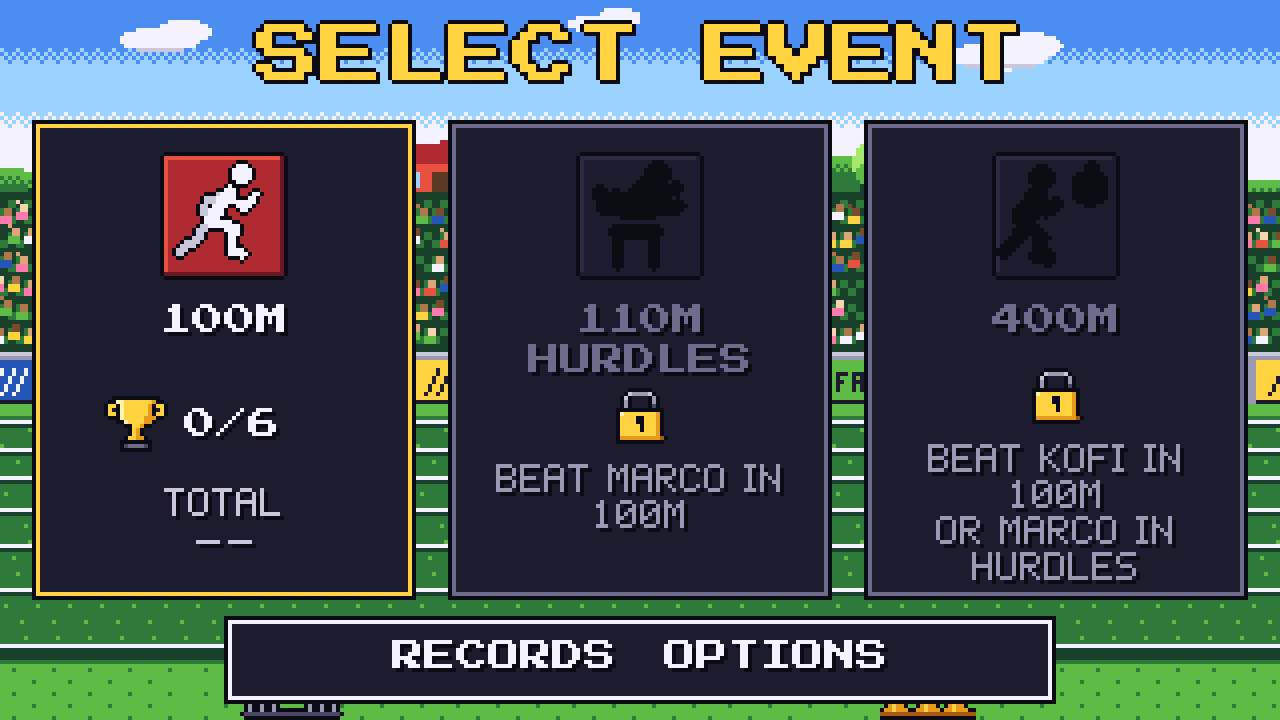
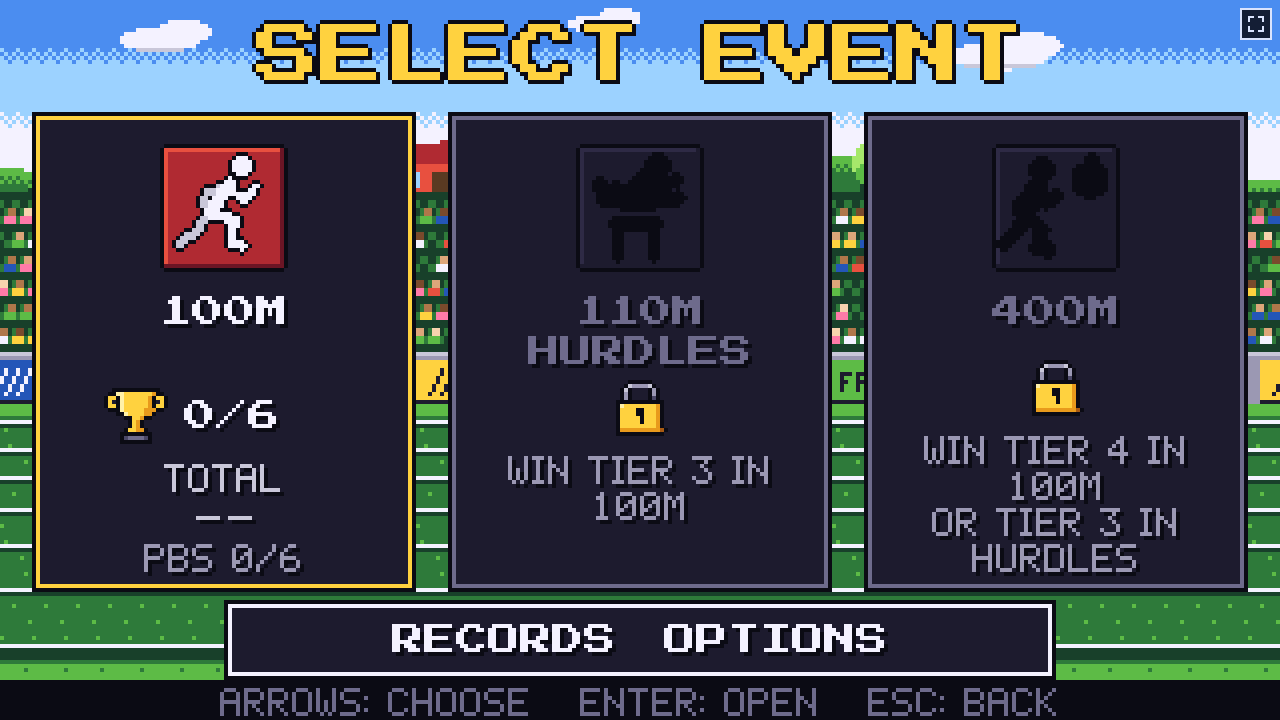
Re-capture the README screenshots for the UX pass
The event select, ladder, race and results screenshots showed the old
"BEAT MARCO" lock text and the old results card. The new captures show
the tier lock text and key hints, the meet name on the ladder, and the
results card's pace, fumbles, pace needed to win, PB gap and next
unlock; the captions follow.

diff --git a/README.md b/README.md
@@ -20,15 +20,15 @@ _A 100 m race in progress at the World Games meet. Screenshot of the running gam
 
 ![The event select screen: 100 m unlocked, while the 110 m hurdles and 400 m cards are locked with their unlock conditions.](docs/assets/events.png)
 
-_Event select on a fresh profile. Beating rivals in the 100 m unlocks the hurdles and the 400 m._
+_Event select on a fresh profile. Winning higher tiers of the 100 m unlocks the hurdles and the 400 m._
 
-![The 100 m ladder with Kofi selected: his tier, target time, best placing of 2nd, and medal pips on the rivals already raced.](docs/assets/ladder.png)
+![The 100 m ladder with Kofi selected: his tier, his meet (City Open), target time, best placing of 2nd, and medal pips on the rivals already raced.](docs/assets/ladder.png)
 
 _The ladder. Medal pips show your best placing against each rival._
 
-![A results card for a six-runner race, listing every runner's place and time, with the player's row highlighted in 6th.](docs/assets/results.png)
+![A results card for a six-runner race: every runner's place and time with the player's row highlighted in 6th, then the player's pace, fumbles, the extra pace needed to win, the gap to their PB and the rival a win would unlock.](docs/assets/results.png)
 
-_Every race ends with the full field's places and times._
+_Every race ends with the full field's places and times, and what to change to win next time._
 
 ## Play it locally
 
